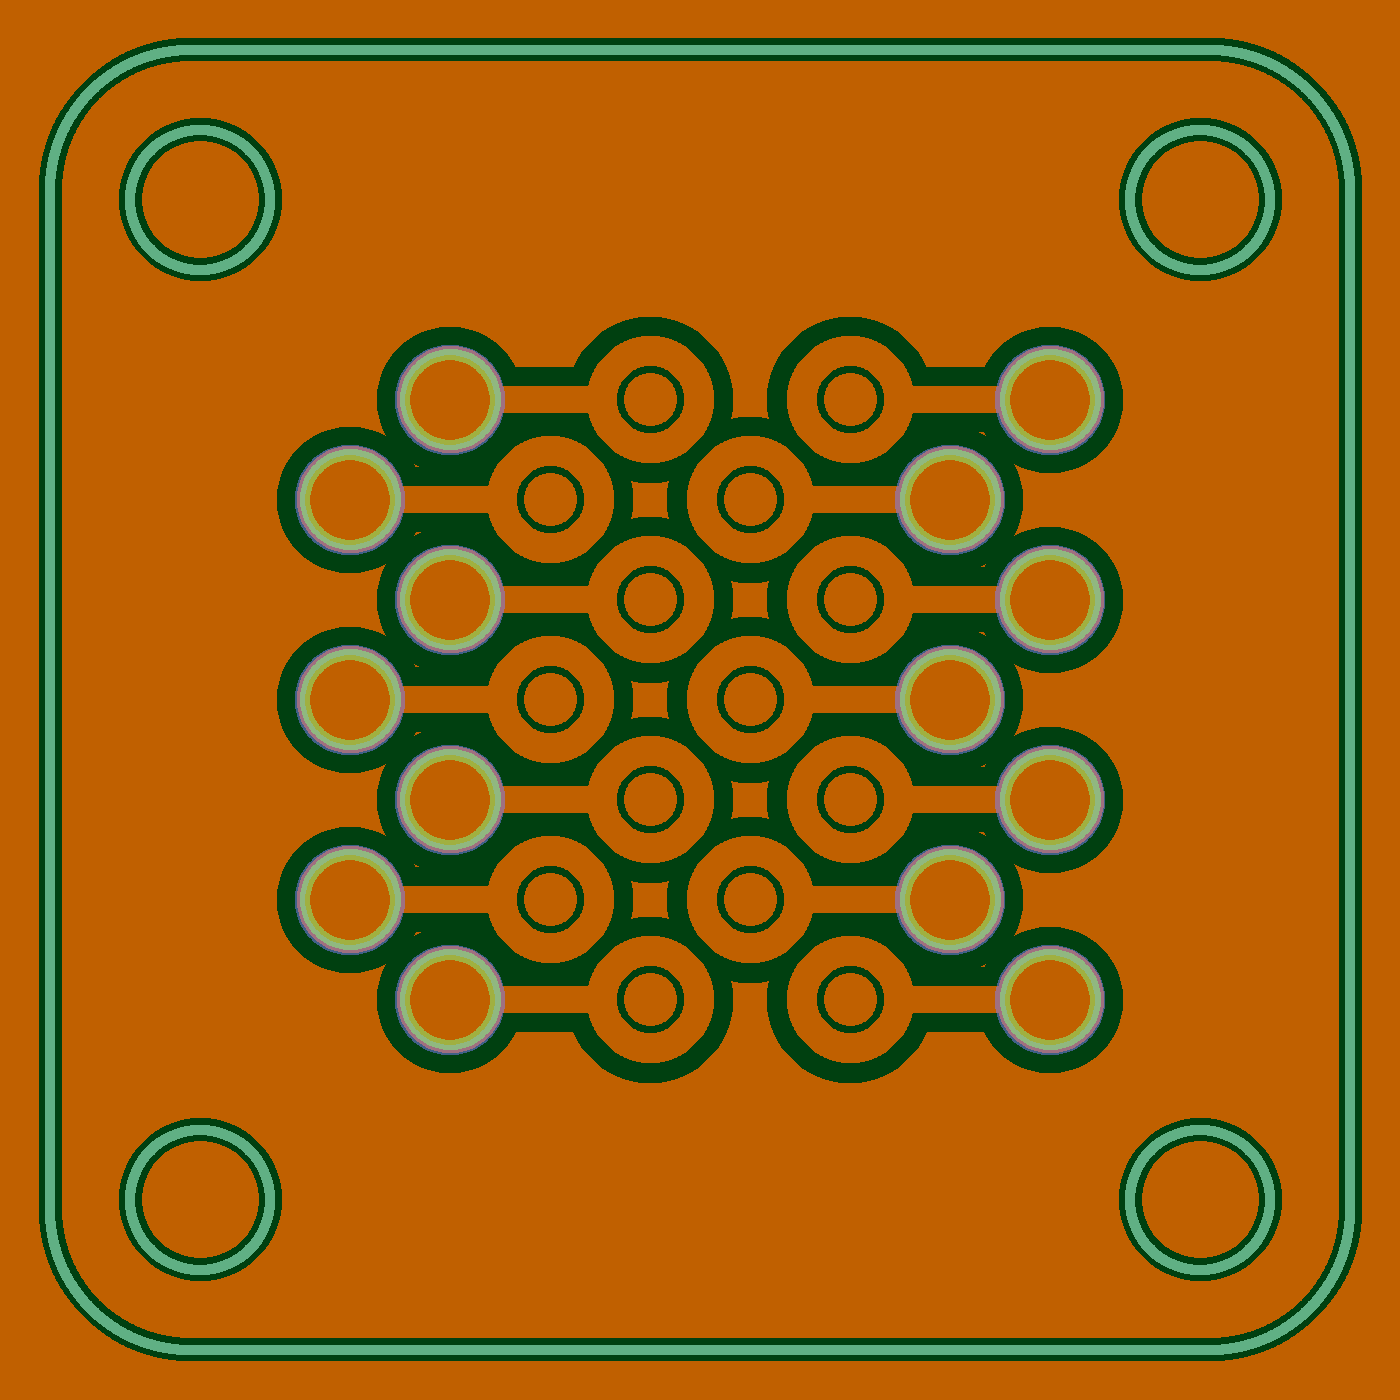
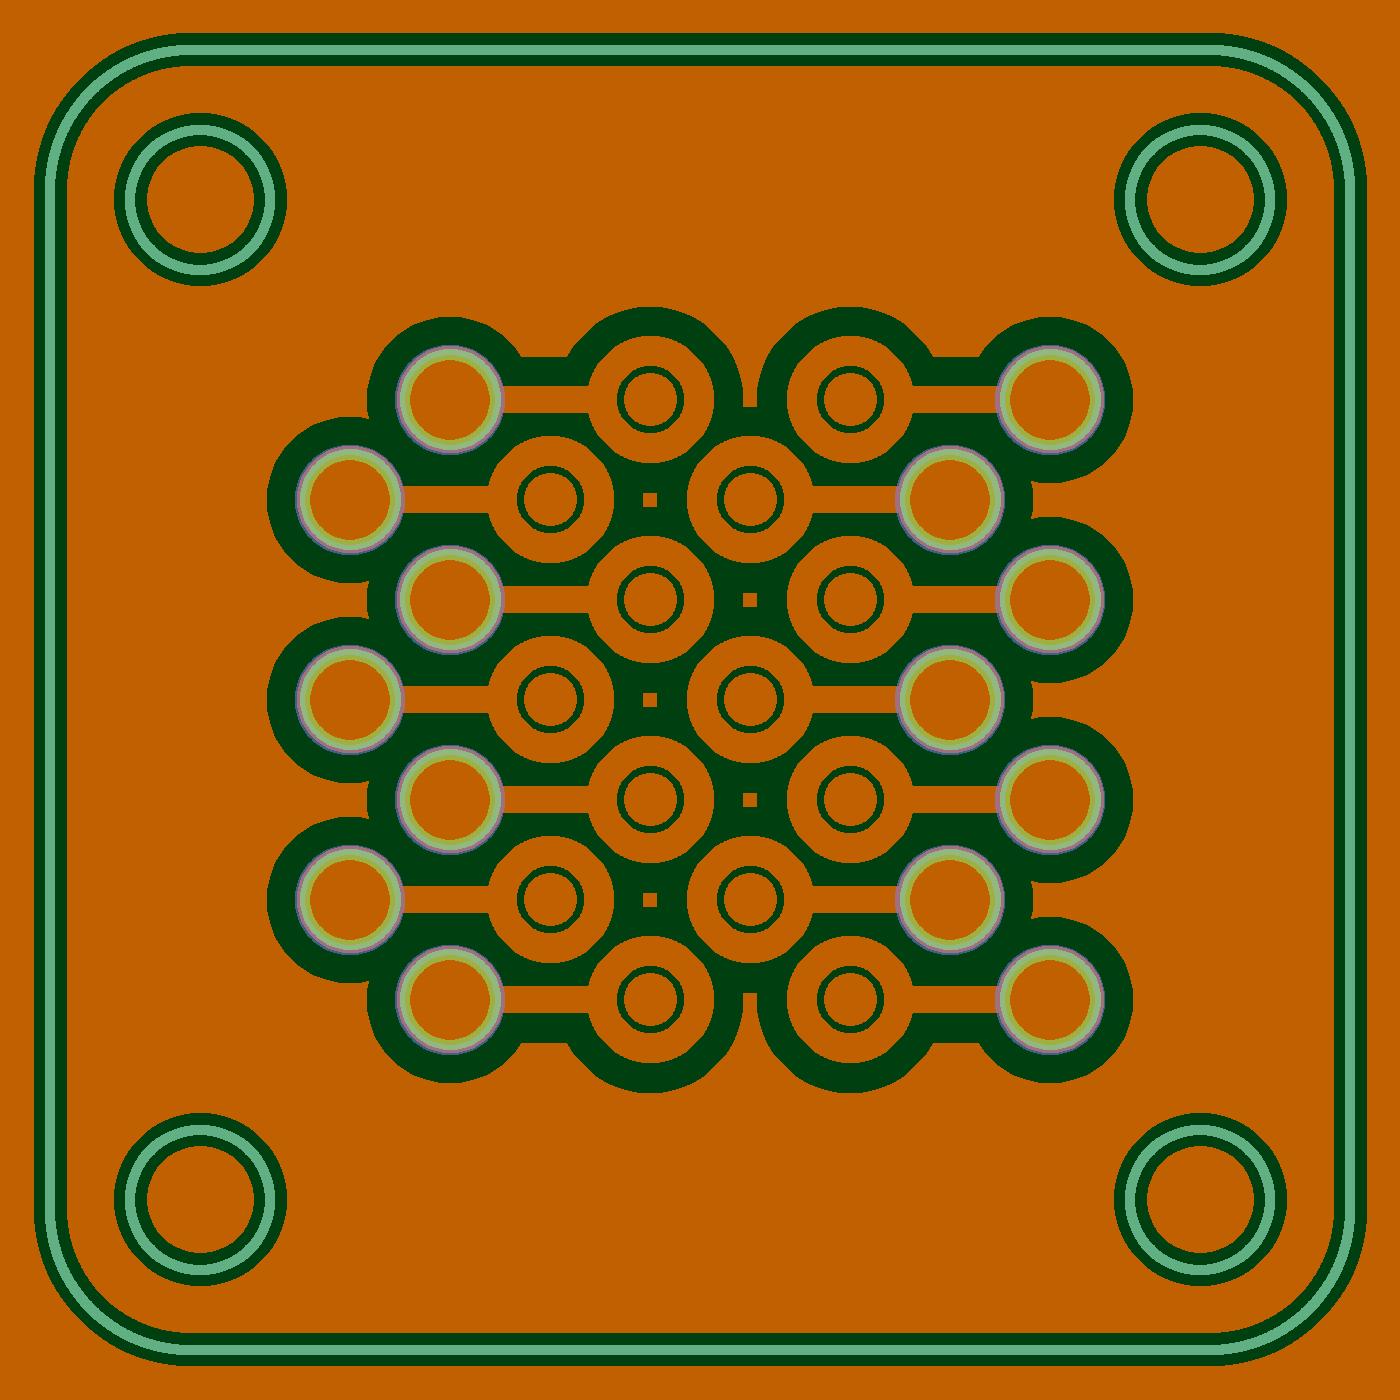
Experiment to further increase clear width

diff --git a/eda/lib/via/rivet/rivet_test.go b/eda/lib/via/rivet/rivet_test.go
@@ -98,6 +98,7 @@ func TestBoard(t *testing.T) {
 	assert.NoError(t, util.RunConcurrently(
 		func() error {
 			conf := config.Default()
+			conf.ClearWidth = 0.4
 			conf.SavePath = "out/1-"
 			return pcb.Process(conf, top)
 		},
